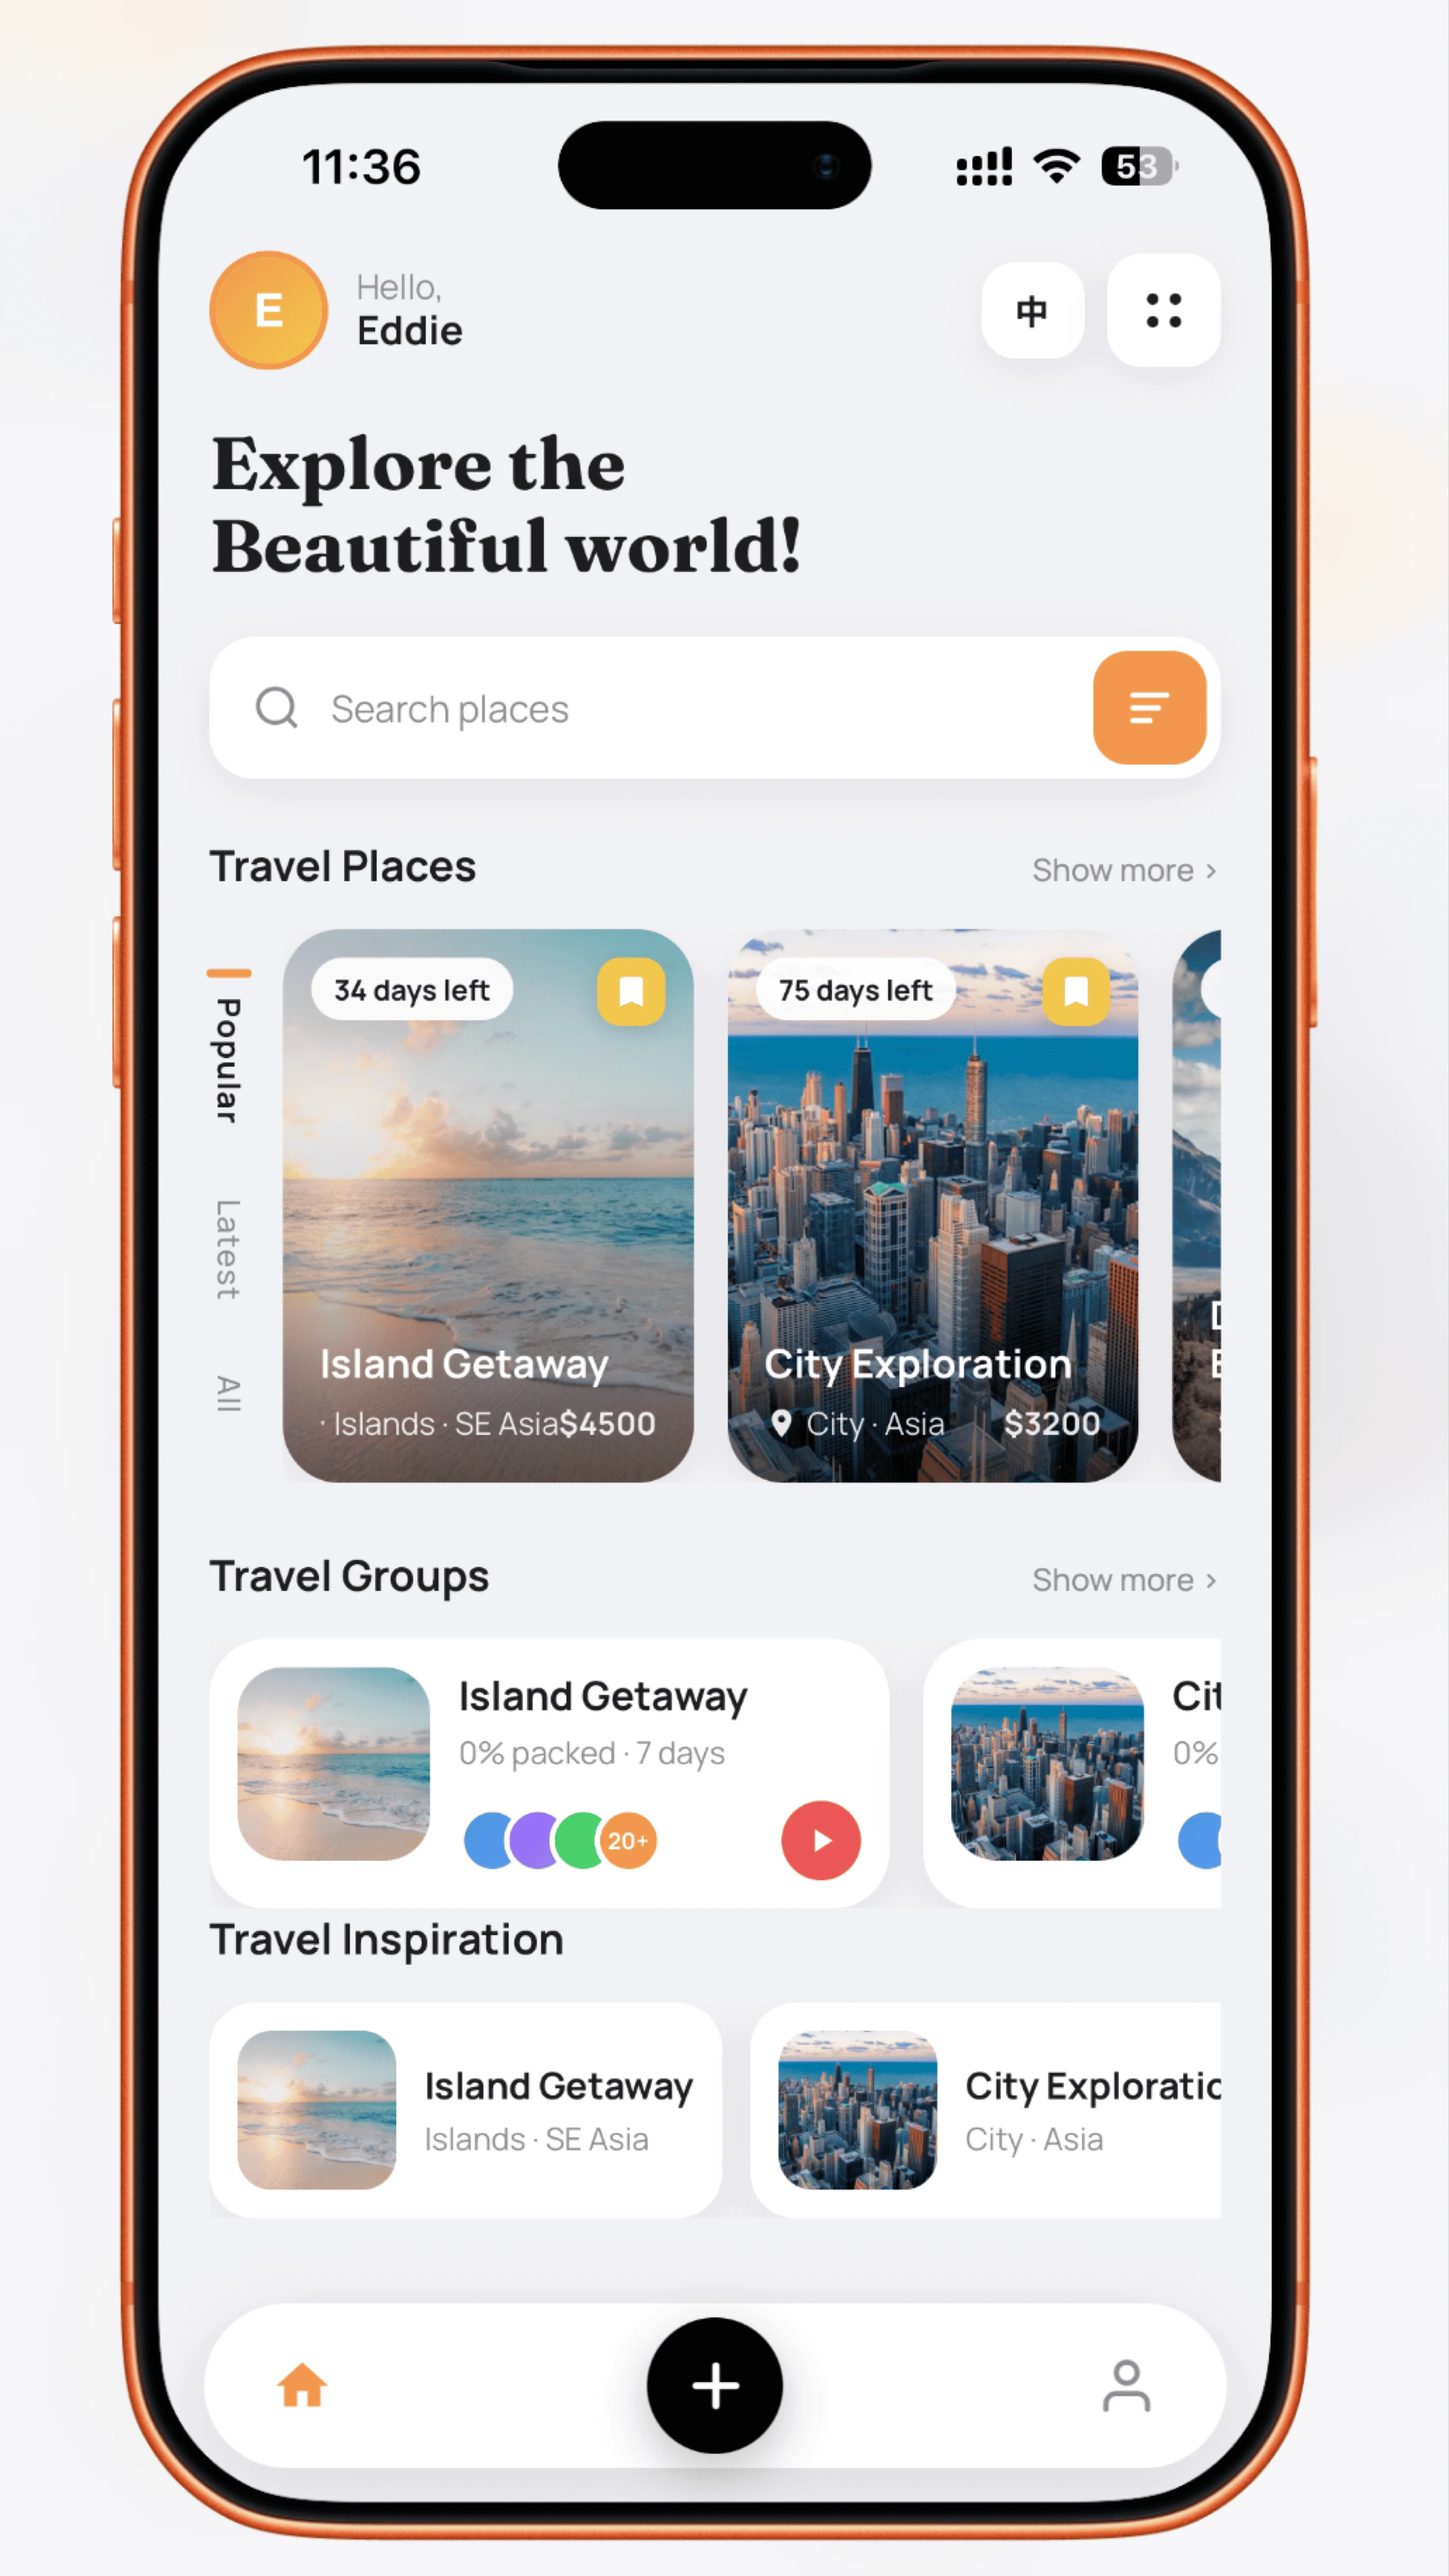
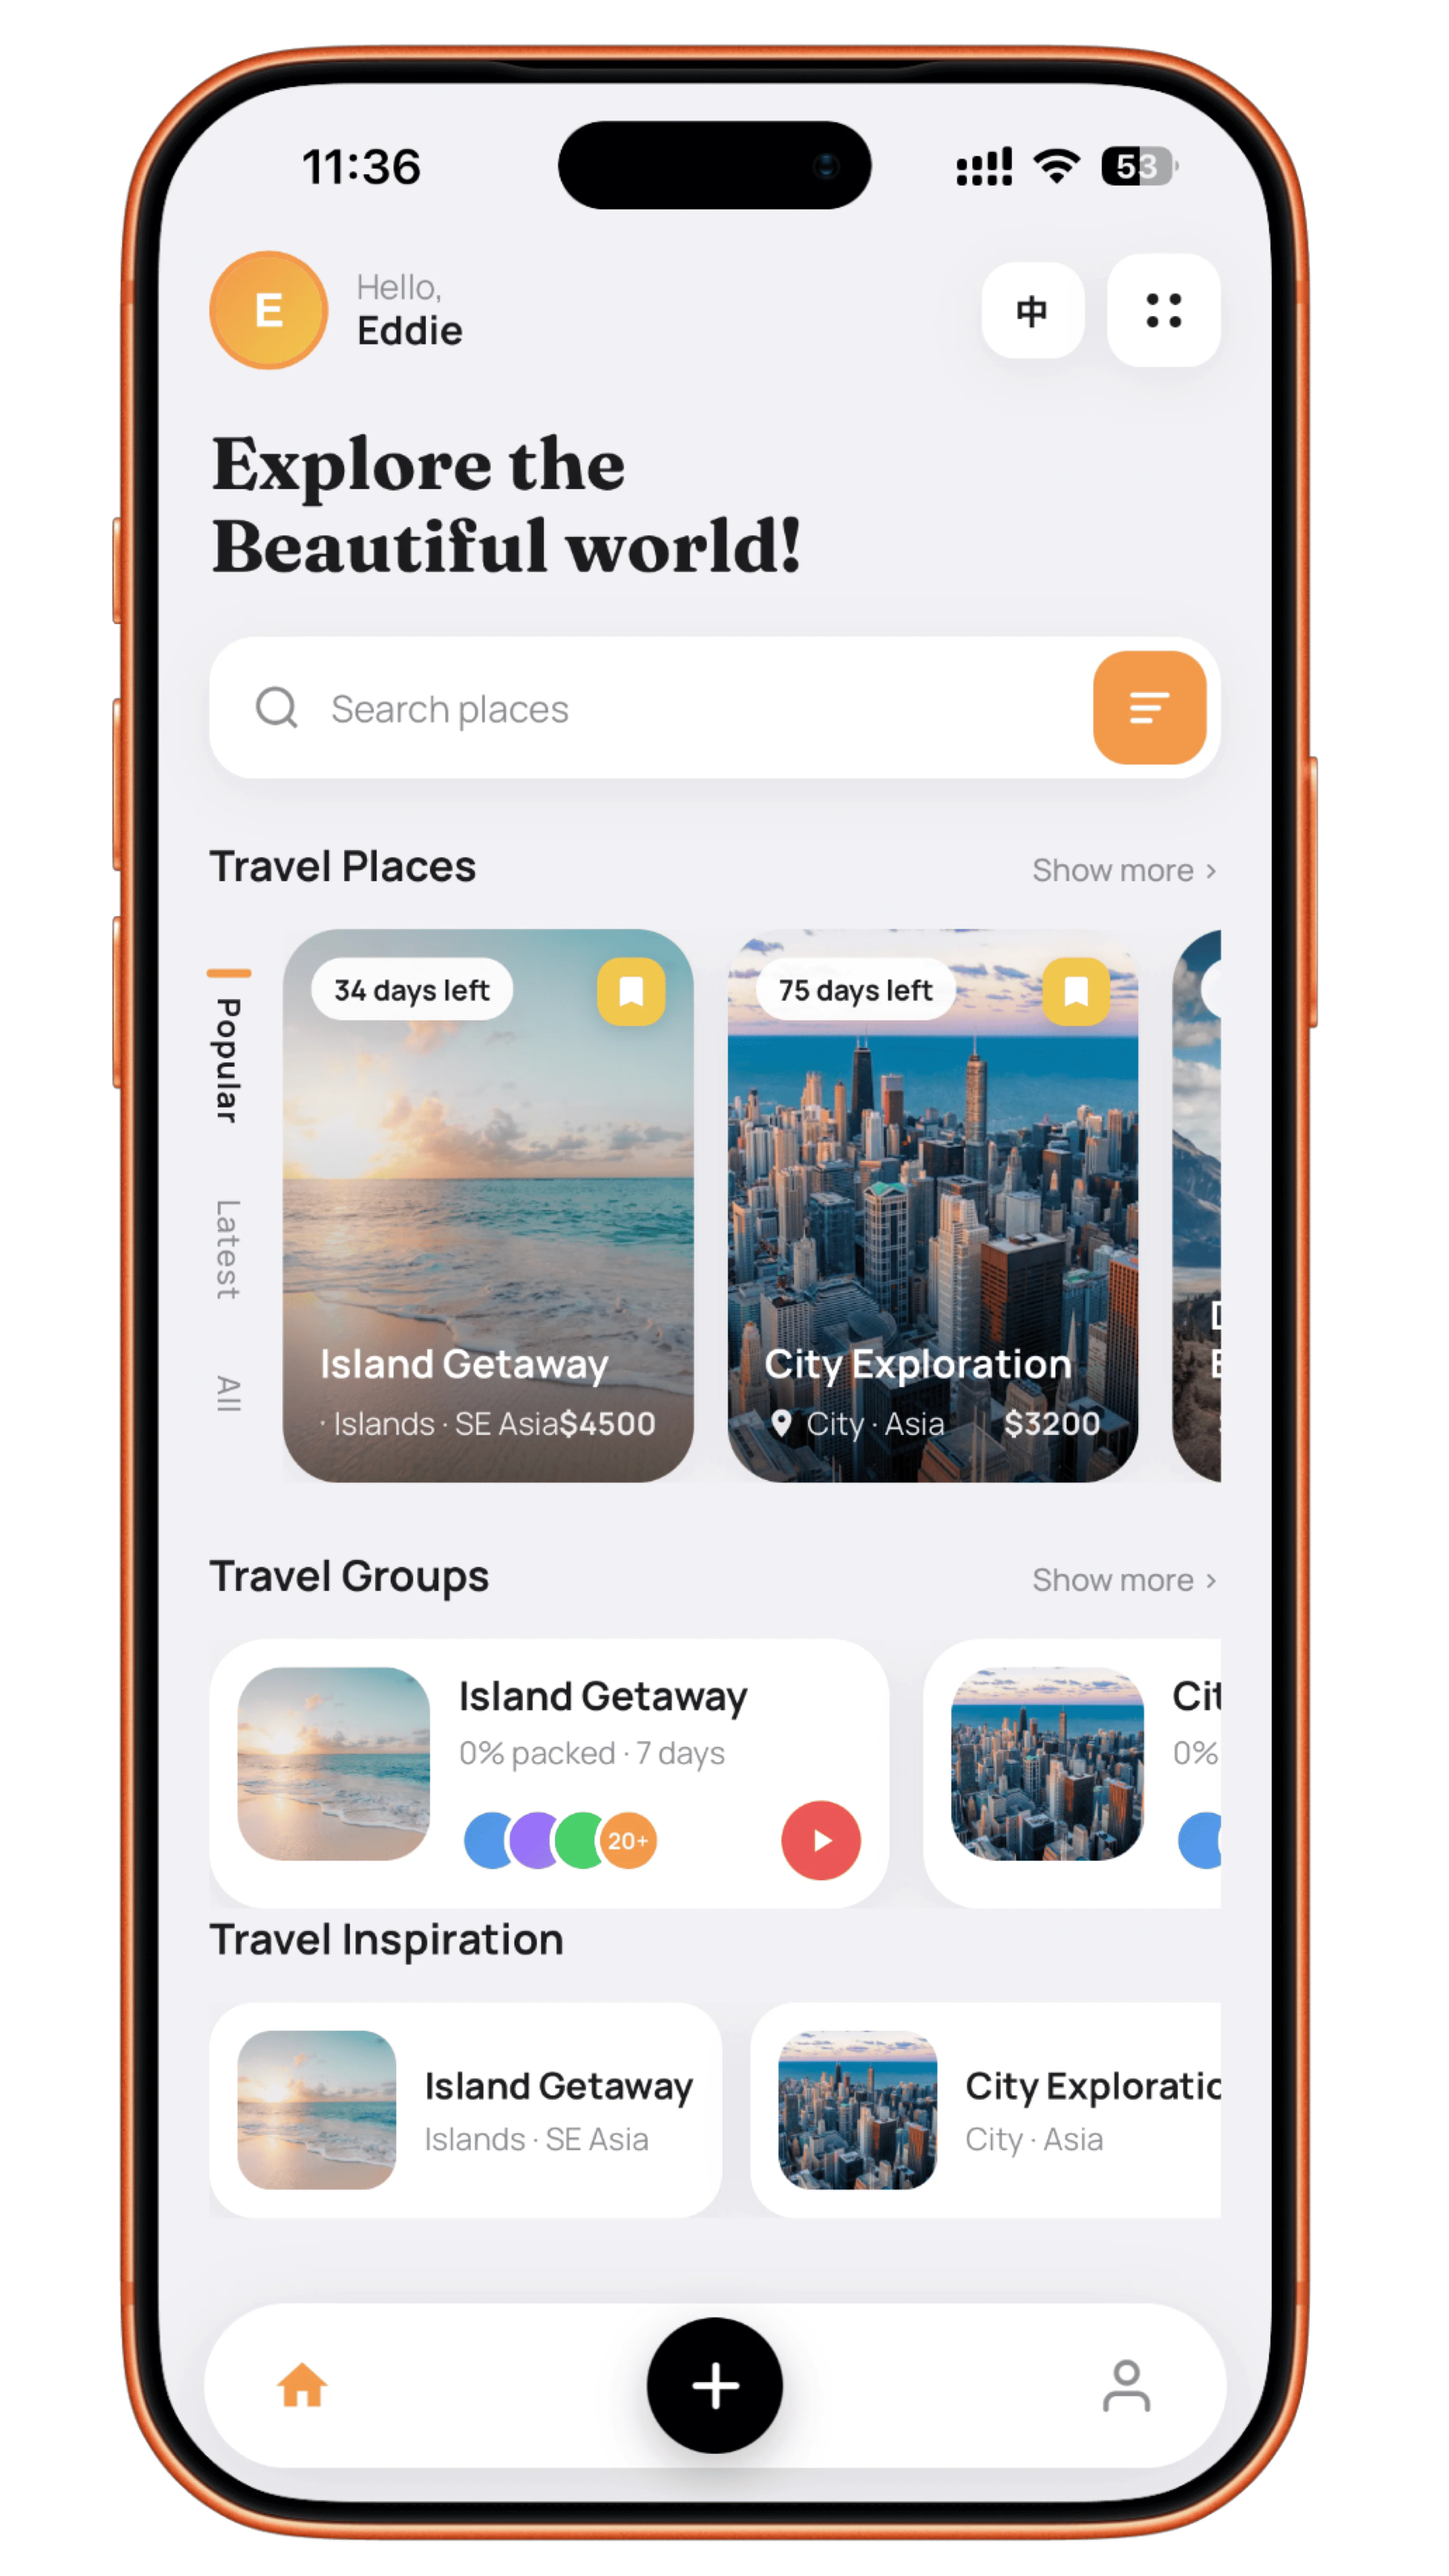
update

Changed region(s): [[0.9028, 0.4354, 0.934, 0.5597]]

diff --git a/src/pages/Design.tsx b/src/pages/Design.tsx
@@ -151,7 +151,7 @@ export default function Design() {
           <div className="grid grid-cols-1 sm:grid-cols-2 lg:grid-cols-4 gap-6 sm:gap-7">
             {PROJECTS.filter((p) => p.slug !== "team").map((p, i) => {
               const copy = p[lang];
-              const cover = `/design/${p.slug}.png`;
+              const cover = `/design/${p.slug}.webp`;
               const showImg = !broken[p.slug];
               return (
                 <article
@@ -221,7 +221,7 @@ export default function Design() {
           {(() => {
             const p = PROJECTS.find((x) => x.slug === "team")!;
             const copy = p[lang];
-            const cover = `/design/${p.slug}.png`;
+            const cover = `/design/${p.slug}.webp`;
             const showImg = !broken[p.slug];
             return (
               <article className="group relative mt-6 bg-surface border border-border rounded-card-lg overflow-hidden hover:border-ink/40 hover:shadow-lg transition-all flex flex-col lg:flex-row">
